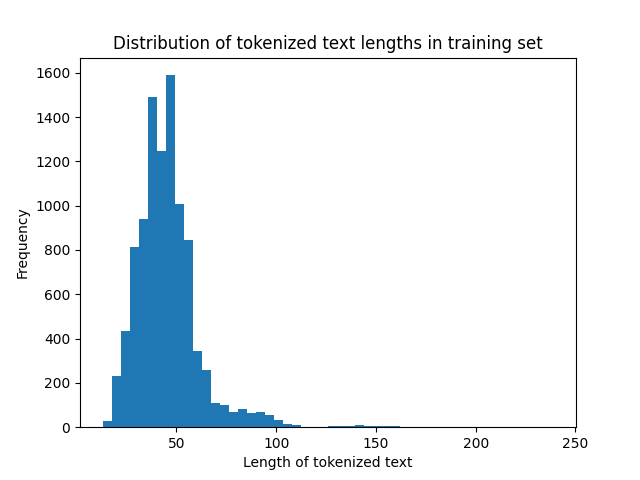
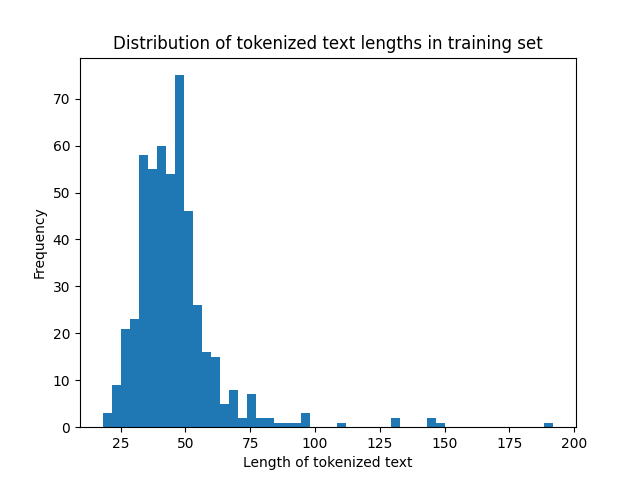
one function for getting the data

diff --git a/src/data_handler.py b/src/data_handler.py
@@ -17,12 +17,12 @@ MAX_LEN = 64
 BATCH_SIZE = 32
 
 # Subsample for speed
-N_TRAIN = 512
-N_VAL = 128
-N_TEST = 128
+N_TRAIN = 500
+N_VAL = 100
+N_TEST = 100
 
 
-def get_raw_data(path):
+def _get_raw_data(path):
     train_data = pd.read_csv(path + "/train.csv")
     test_data = pd.read_csv(path + "/test.csv")
 
@@ -56,27 +56,27 @@ def get_raw_data(path):
     }
 
 
-def get_smaller_datasets(raw):
+def _get_smaller_datasets(raw):
     train = raw["train"].shuffle(seed=67).select(range(N_TRAIN))
     validation = raw["validation"].shuffle(seed=67).select(range(N_VAL))
     test = raw["test"].select(range(N_TEST))
     return train, validation, test
 
 
-def get_datasets(raw):
+def _get_datasets(raw):
     train = raw["train"].shuffle(seed=67)  # We only shuffle the training set
     validation = raw["validation"]
     test = raw["test"]
     return train, validation, test
 
 
-def tokenize_data(data):
+def _tokenize_data(data):
     tokenizer = tf_text.UnicodeScriptTokenizer()
     tokens = tokenizer.tokenize([data])
     return tokens.to_list()[0]
 
 
-def build_vocab(texts, min_freq: int = 2, max_size: int = 30000) -> dict:
+def _build_vocab(texts, min_freq: int = 2, max_size: int = 30000) -> dict:
     """
     Build a vocabulary mapping from tokens to integer indices.
     The vocabulary will include only tokens that appear at least `min_freq` times,
@@ -84,7 +84,7 @@ def build_vocab(texts, min_freq: int = 2, max_size: int = 30000) -> dict:
     """
     counter = Counter()
     for text in texts:
-        counter.update(tokenize_data(text))
+        counter.update(_tokenize_data(text))
     # Reserve 0 for PAD and 1 for UNK.
     vocab = {PAD: 0, UNK: 1}
     for word, freq in counter.most_common():
@@ -96,7 +96,7 @@ def build_vocab(texts, min_freq: int = 2, max_size: int = 30000) -> dict:
     return vocab
 
 
-def numericalize(tokens: list, vocab: dict) -> list:
+def _numericalize(tokens: list, vocab: dict) -> list:
     """
     Convert a list of tokens into a list of integer indices using the provided vocabulary.
     Tokens not found in the vocabulary will be mapped to the index of UNK.
@@ -123,13 +123,13 @@ class TextDataset(Dataset):
     def __getitem__(self, idx: int) -> tuple:
         """Given an index, return the token ids and label for the corresponding sample."""
         item = self.ds[idx]
-        tokens = tokenize_data(item["text"])
+        tokens = _tokenize_data(item["text"])
 
         # Convert to ids and truncate
         if len(tokens) == 0:
             ids = [self.vocab[UNK]]
         else:
-            ids = numericalize(tokens, self.vocab)[: self.max_len]
+            ids = _numericalize(tokens, self.vocab)[: self.max_len]
             if len(ids) == 0:
                 ids = [self.vocab[UNK]]
 
@@ -149,10 +149,10 @@ def collate(batch: list) -> Batch:
     return Batch(x=x, lengths=lengths, y=y)
 
 
-def plot_lengths(data):
+def _plot_lengths(data):
     Path("plots").mkdir(exist_ok=True)
 
-    lengths = [len(tokenize_data(text)) for text in data["text"]]
+    lengths = [len(_tokenize_data(text)) for text in data["text"]]
     plt.hist(lengths, bins=50)
     plt.title("Distribution of tokenized text lengths in training set")
     plt.xlabel("Length of tokenized text")
@@ -161,10 +161,7 @@ def plot_lengths(data):
     plt.close()
 
 
-def preprocess_data(
-    train_ds_hf: pd.DataFrame,
-    val_ds_hf: pd.DataFrame,
-    test_ds_hf: pd.DataFrame,
+def get_preprocessed_data(path, small_datasets = False, plots = False
 ) -> tuple[
     Any,  # X_train
     Any,  # X_validation
@@ -192,14 +189,24 @@ def preprocess_data(
             - original_validation: Validation set.
             - original_test: Test set.
     """
+    raw = _get_raw_data(path)
+    
+    if small_datasets:
+        train_ds_hf, val_ds_hf, test_ds_hf = _get_smaller_datasets(raw)
+    else:
+        train_ds_hf, val_ds_hf, test_ds_hf = _get_datasets(raw)
 
-    vocab = build_vocab(train_ds_hf["text"], min_freq=2, max_size=30000)
+    print(
+        f"Dataset lengths: train={len(train_ds_hf)}, val={len(val_ds_hf)}, test={len(test_ds_hf)}"
+    )
+
+    vocab = _build_vocab(train_ds_hf["text"], min_freq=2, max_size=30000)
+    
+    if plots:
+        _plot_lengths(train_ds_hf)
 
     print(f"Using MAX_LEN={MAX_LEN} and BATCH_SIZE={BATCH_SIZE}")
     
-    sample = train_ds_hf[0]["text"]
-    print(tokenize_data(sample)[:20], numericalize(tokenize_data(sample)[:20], vocab)[:20])
-
     train_ds = TextDataset(train_ds_hf, vocab, max_len=MAX_LEN)
     val_ds = TextDataset(val_ds_hf, vocab, max_len=MAX_LEN)
     test_ds = TextDataset(test_ds_hf, vocab, max_len=MAX_LEN)

diff --git a/main.py b/main.py
@@ -6,81 +6,14 @@ import torch
 import torch.nn as nn
 from pandas import DataFrame
 
-from functions_models import evaluation_loop, training_loop
-from hyperparameter_evaluation import do_hyperparameter_evaluation, make_heatmap
-from src.data_handler import get_raw_data, get_smaller_datasets, preprocess_data
+from src.functions_models import evaluation_loop, training_loop
+from src.hyperparameter_evaluation import do_hyperparameter_evaluation, make_heatmap
+from src.data_handler import get_preprocessed_data
 from src.models import CNNTextClassifier, LSTMClassifier
-
-
-def set_seed(seed: int = 67) -> None:
-    """Set random seeds for reproducibility."""
-    random.seed(seed)
-    np.random.seed(seed)
-    torch.manual_seed(seed)
-    torch.cuda.manual_seed_all(seed)
-    torch.backends.cudnn.deterministic = True
-    torch.backends.cudnn.benchmark = False
-
-
-set_seed(13)
-
-raw = get_raw_data("data")
-
-
-for i in range(5):
-    print(f"Example {i}:\n{raw['train'][i]}\n")
-
-
-train_ds_hf, val_ds_hf, test_ds_hf = get_smaller_datasets(raw)
-
-print(
-    f"Dataset lengths: train={len(train_ds_hf)}, val={len(val_ds_hf)}, test={len(test_ds_hf)}"
-)
-
-train_loader, val_loader, test_loader, vocab = preprocess_data(
-    train_ds_hf, val_ds_hf, test_ds_hf
-)
-vocab_size = len(vocab)
-
-print(vocab_size, list(vocab.items())[:10])
-
-batch0 = next(iter(train_loader))
-print("One batch shapes")
-print(
-    "x:",
-    tuple(batch0.x.shape),
-    "lengths:",
-    tuple(batch0.lengths.shape),
-    "y:",
-    tuple(batch0.y.shape),
-)
-print("Example lengths:", batch0.lengths[:10].tolist())
-
-
-x_demo = torch.randint(low=0, high=vocab_size, size=(4, 20))
-len_demo = torch.tensor([20, 18, 12, 7])
-print(
-    "LSTM logits shape:", LSTMClassifier(vocab_size=vocab_size)(x_demo, len_demo).shape
-)
-print(
-    "CNN logits shape: ",
-    CNNTextClassifier(vocab_size=vocab_size)(x_demo, len_demo).shape,
-)
-
-# cnn = CNN(vocab_size, 64)
-# cnn.fit(train_loader, val_loader)
-
-# lstm = LSTM(vocab_size, 64)
-# lstm.fit(train_loader, val_loader)
-
-
-set_seed(13)
 
 MAX_EPOCHS = 12
 PATIENCE = 3
 LR = 1e-3
-CLIP = 1.0
-
 
 def count_parameters(model: nn.Module) -> int:
     return sum(p.numel() for p in model.parameters() if p.requires_grad)
@@ -95,7 +28,6 @@ def train_and_time(name: str, model: nn.Module):
         lr=LR,
         max_epochs=MAX_EPOCHS,
         patience=PATIENCE,
-        clip_grad_norm=CLIP,
     )
     total_time = time.perf_counter() - t0
     val = evaluation_loop(model, val_loader)
@@ -108,6 +40,20 @@ def train_and_time(name: str, model: nn.Module):
         "time_s_total": total_time,
     }
 
+def set_seed(seed: int = 67) -> None:
+    """Set random seeds for reproducibility."""
+    random.seed(seed)
+    np.random.seed(seed)
+    torch.manual_seed(seed)
+    torch.cuda.manual_seed_all(seed)
+    torch.backends.cudnn.deterministic = True
+    torch.backends.cudnn.benchmark = False
+
+
+train_loader, val_loader, test_loader, vocab = get_preprocessed_data('data', True)
+vocab_size = len(vocab)
+
+set_seed(67)
 
 lstm = LSTMClassifier(
     vocab_size=vocab_size,
@@ -126,7 +72,6 @@ cnn = CNNTextClassifier(
     dropout=0.3,
     pad_idx=0,
 )
-
 
 print("Number of trainable parameters:")
 print("LSTM:", count_parameters(lstm))

diff --git a/src/hyperparameter_evaluation.py b/src/hyperparameter_evaluation.py
@@ -8,7 +8,7 @@ import seaborn as sns
 from sklearn.metrics import accuracy_score
 
 from functions_models import evaluation_loop, training_loop
-from models import CNNTextClassifier, LSTMClassifier
+from src.models import CNNTextClassifier, LSTMClassifier
 
 
 def do_hyperparameter_evaluation(

diff --git a/src/functions_models.py b/src/functions_models.py
@@ -46,7 +46,6 @@ def training_loop(
     lr: float = 1e-3,
     max_epochs: int = 20,
     weight_decay: float = 0.0,
-    clip_grad_norm: float | None = None,
     patience: int | None = 3,
 ) -> list:
     """
